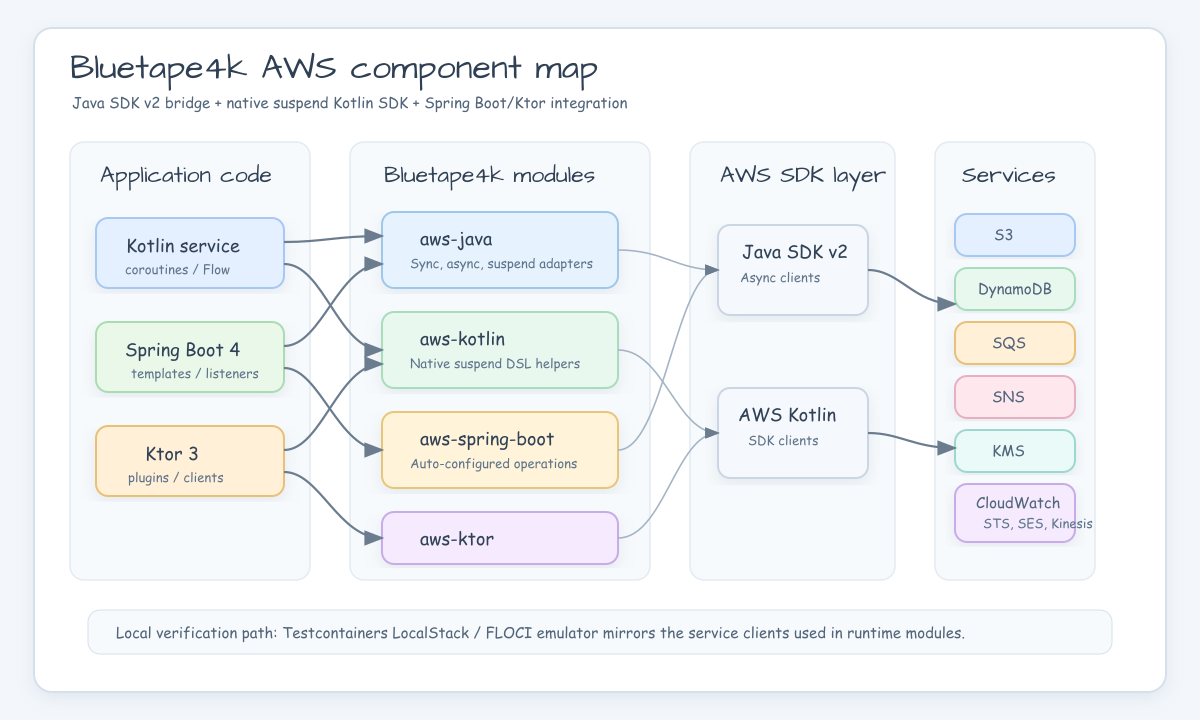
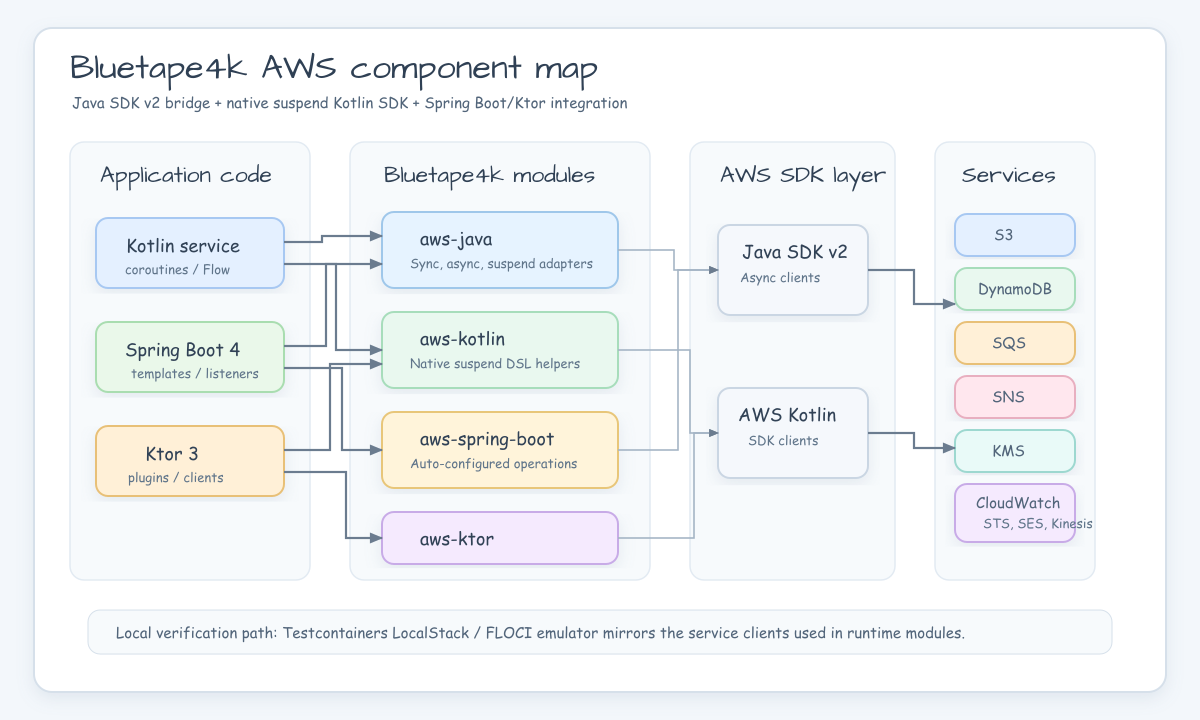
docs: Align AWS README visuals with source modules
README visuals should match the source module graph and actual example coverage. This updates the root module table, normalizes generated aws-ktor labels, and reroutes the component map with smaller arrowheads.

Constraint: Diagram and chart text must remain English-only, pastel, and reusable as PNG/SVG assets.

Rejected: Keep the root README table at three examples | settings.gradle.kts currently registers six example modules.

Confidence: high

Scope-risk: narrow

Directive: Keep root README module tables and generated overview assets in sync with settings.gradle.kts when modules or examples change.

Tested: git diff --check; xmllint --noout on changed SVG assets; rsvg-convert PNG rendering; README image-link existence scan.

Not-tested: Gradle build, because only README text and static image assets changed.

diff --git a/README.md b/README.md
@@ -54,7 +54,10 @@ applications to adopt a single framework or dependency stack.
 | `bluetape4k-aws-kotlin` | `io.github.bluetape4k.aws:bluetape4k-aws-kotlin` | AWS Kotlin SDK wrappers. Native `suspend` functions + DSL builders for DynamoDB, S3, SES/v2, SNS, SQS, KMS, CloudWatch, CloudWatch Logs, Kinesis, STS |
 | `bluetape4k-aws-spring-boot` | `io.github.bluetape4k.aws:bluetape4k-aws-spring-boot` | Spring Boot 4 auto-configuration for AWS services. Coroutines-native, no awspring dependency. Includes S3 Transfer Manager (`S3TransferTemplate`), SNS HTTP endpoint notification parsing (`SnsHttpMessageParser`), SQS listener support, DynamoDB, KMS, Secrets Manager, and Parameter Store |
 | `bluetape4k-aws-ktor` | `io.github.bluetape4k.aws:bluetape4k-aws-ktor` | Ktor 3 SigV4 client plugin, coroutine-friendly S3 REST client, SQS consumer runtime, and DynamoDB server repository plugin |
+| `aws-ktor-dynamodb-examples` | not published | Ktor 3 DynamoDB server repository example backed by LocalStack/FLOCI |
 | `aws-ktor-s3-examples` | not published | LocalStack-oriented examples for `S3KtorClient`; compiled and tested in Nightly |
+| `aws-ktor-sqs-examples` | not published | Ktor 3 SQS consumer/runtime example with local emulator wiring |
+| `aws-spring-boot-dynamodb-examples` | not published | Spring Boot 4 DynamoDB repository examples for coroutine service flows |
 | `aws-spring-boot-s3-examples` | not published | Spring Boot 4 WebFlux examples for `S3Operations`/`S3CoroutinesTemplate`; compiled, tested, and wired for Spring AOT |
 | `aws-spring-boot-sqs-examples` | not published | Spring Boot 4 SQS/SNS fanout examples for `SqsOperations`, `@SqsListener`, and LocalStack SNS subscriptions; compiled, tested, and wired for Spring AOT |
 

diff --git a/docs/lessons/2026-05-21-readme-source-visuals.md b/docs/lessons/2026-05-21-readme-source-visuals.md
@@ -1,0 +1,30 @@
+# README source-backed visuals
+
+## Context
+
+The root README module table did not list every example from
+`settings.gradle.kts`, and generated overview labels drifted to mixed
+`Ktor` casing.
+
+## Decision
+
+Treat `settings.gradle.kts` as the source of truth for root module/example
+coverage and keep generated visual labels aligned with actual module names.
+
+## Outcome
+
+The README table now includes all current AWS Ktor and Spring Boot examples.
+Root overview labels use `aws-ktor-*`, and the component map uses smaller arrow
+heads with orthogonal routing.
+
+## Verification
+
+- `git diff --check`
+- `xmllint --noout` for changed SVG assets
+- `rsvg-convert` PNG rendering
+- README image-link existence scan
+
+## Next
+
+When adding examples, update `settings.gradle.kts`, the root README table, and
+the root visual assets together.
